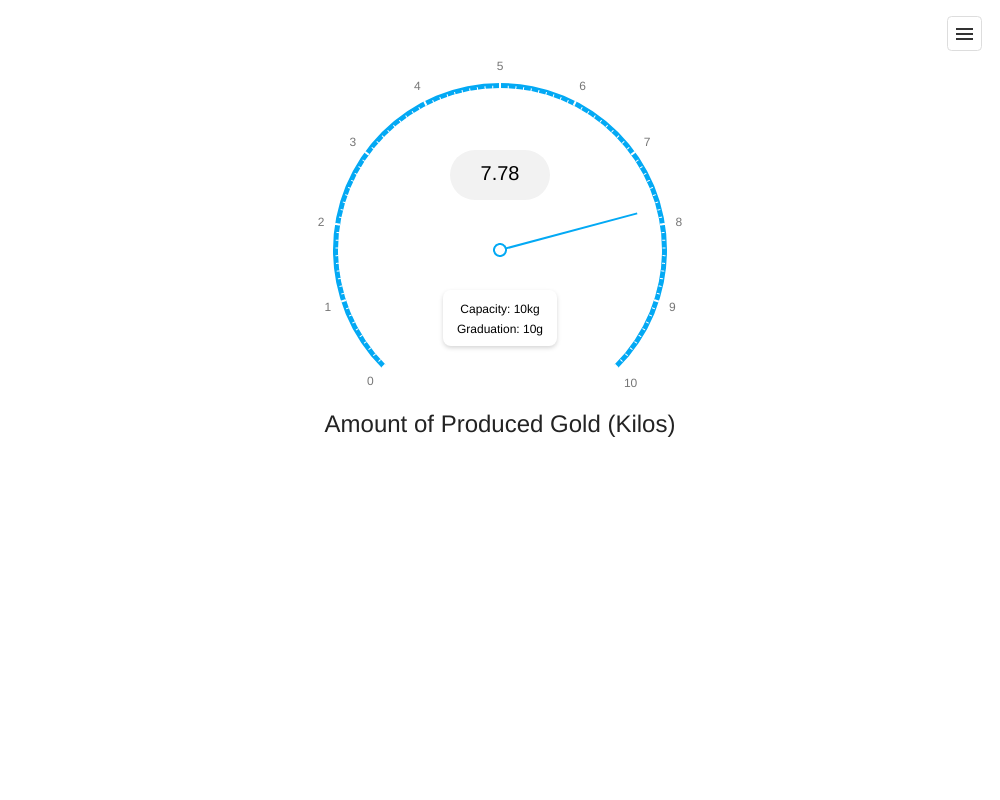
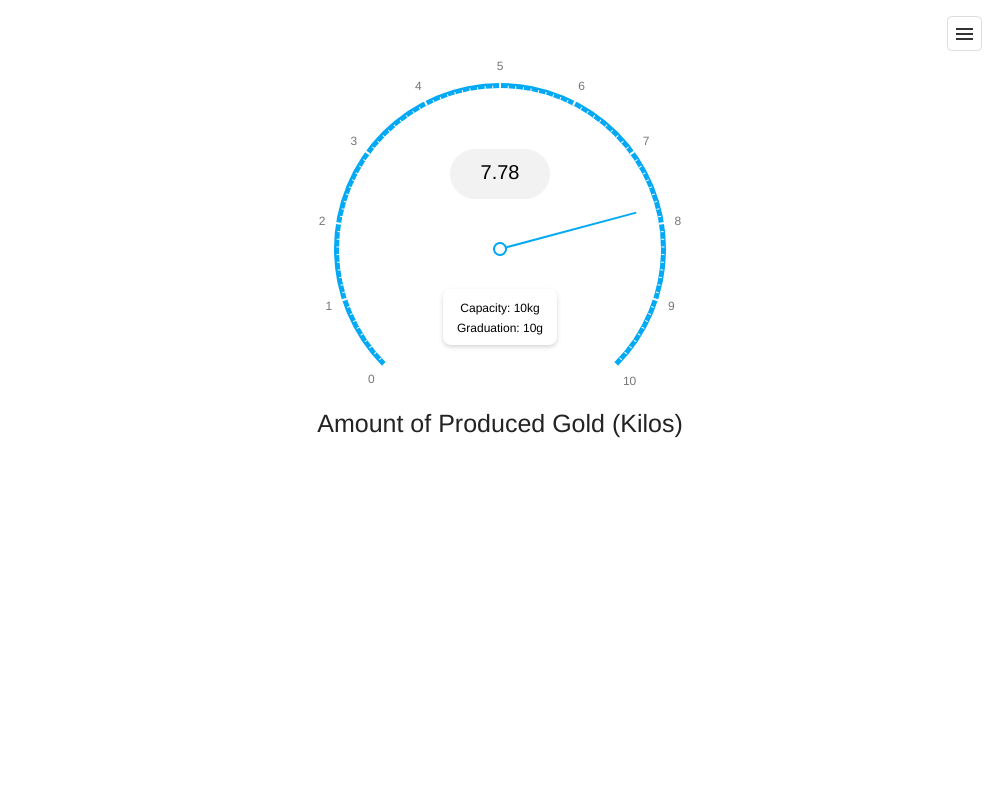
fix font size

diff --git a/JSDemos/Demos/Gauges/TitleAndCenterLabelCustomized/jQuery/index.js b/JSDemos/Demos/Gauges/TitleAndCenterLabelCustomized/jQuery/index.js
@@ -20,7 +20,7 @@ $(() => {
       text: 'Amount of Produced Gold (Kilos)',
       verticalAlignment: 'bottom',
       font: {
-        size: 24,
+        size: 25,
       },
       margin: {
         top: 25,
